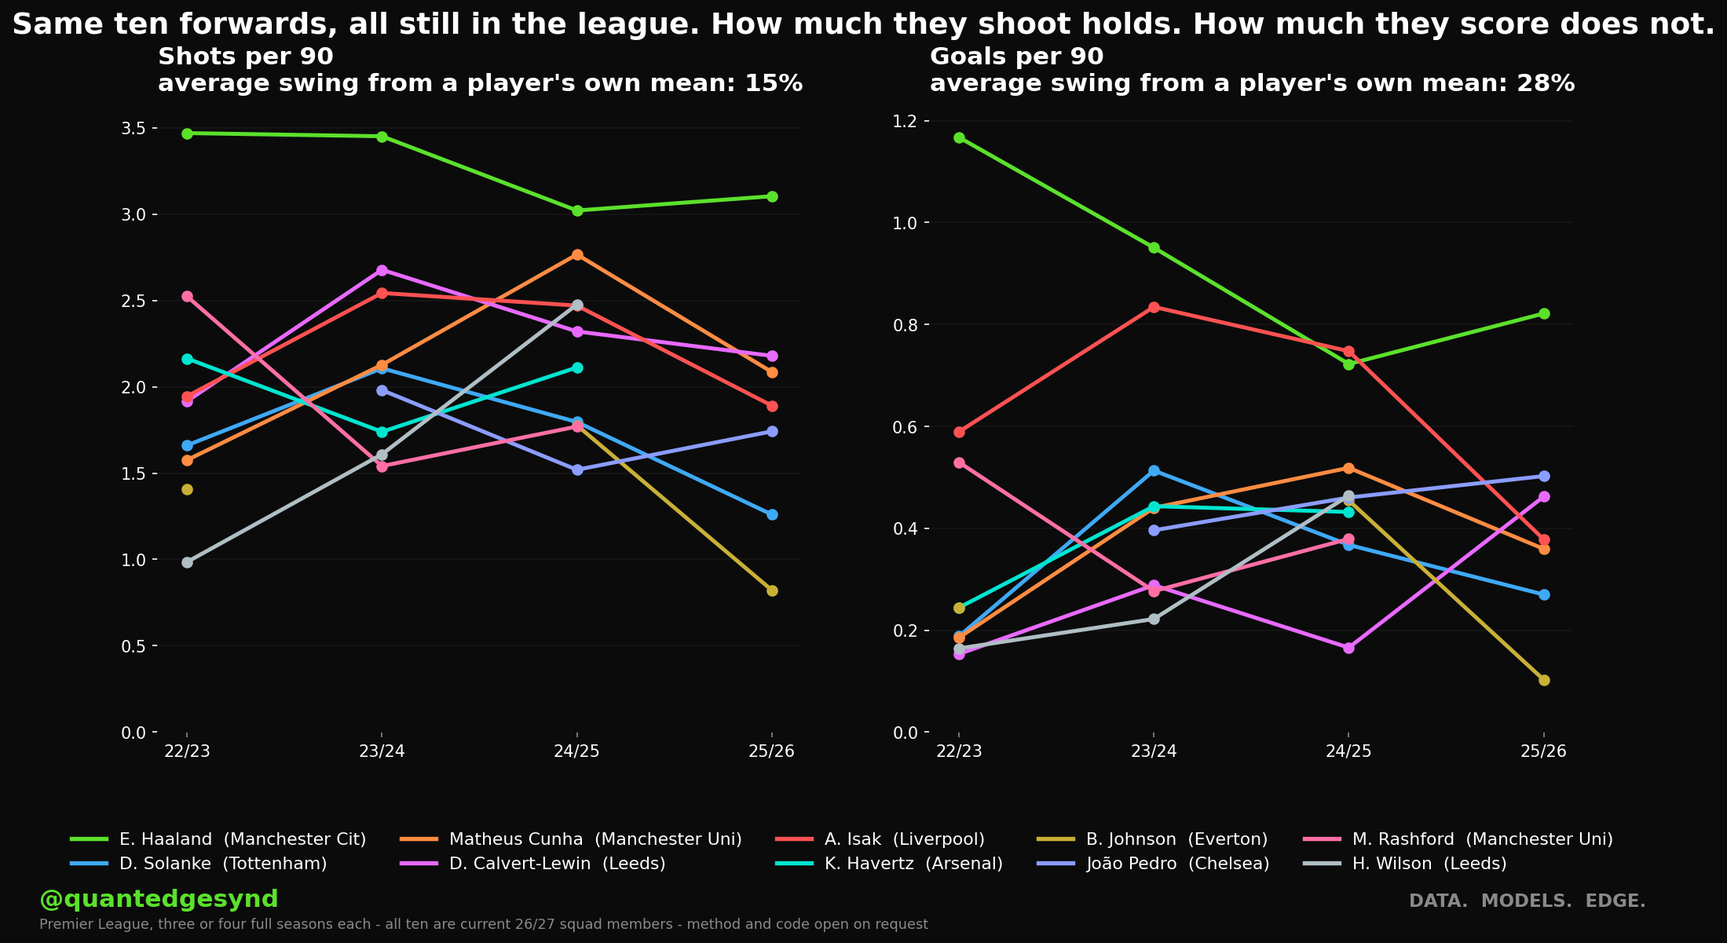
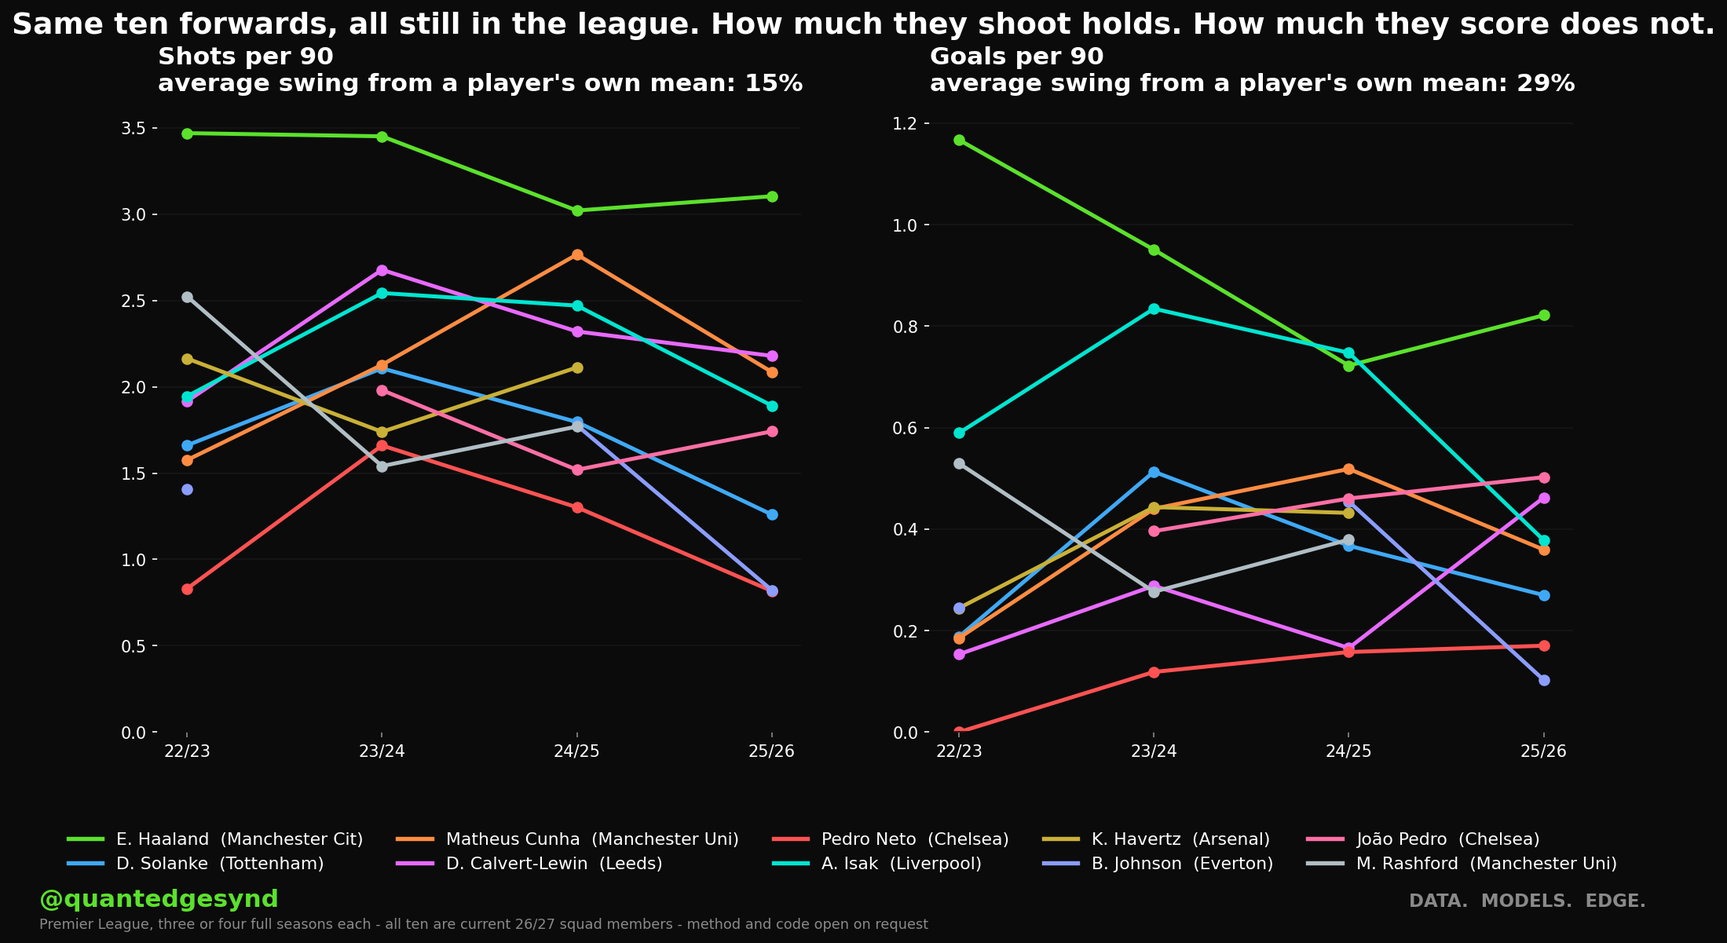
Correct the persistence numbers after folding the Forward label
Most retention figures move by one or two points (conversion 11% to 12%,
shots/90 64% to 65%) and the charts are redrawn. Dated correction notes are on
the persistence and goals pieces. The goals piece's key-passes sentence now
says its interval only just clears zero. The Tzolis ranges are corrected and
his call is unchanged. The homepage and metric-audit figures are updated to
match. Vetted to GO.

Claude-Session: https://claude.ai/code/session_01WAuhRhrydoEqPton8EzKwz

diff --git a/analysis/which-football-stats-persist/index.html b/analysis/which-football-stats-persist/index.html
@@ -237,7 +237,7 @@
     happened to have.</p>
 
     <p>We call what's left the <strong>retention</strong>. A stat that keeps
-    83% of its gap is picking up something that lasts. One that keeps 11% has
+    84% of its gap is picking up something that lasts. One that keeps 12% has
     watched its two groups more or less merge.</p>
 
     <h2>Compare like with like</h2>
@@ -249,7 +249,7 @@
     <p>So every comparison here is made <strong>within a position
     group</strong>: forwards against forwards, defenders against defenders. It
     matters more than you'd think. Lump everyone together and shots per 90
-    looks 89% reliable. Do it properly and it's 64%. Most of that difference
+    looks 89% reliable. Do it properly and it's 65%. Most of that difference
     was positions, not persistence.</p>
 
     <p class="note"><strong>The detail.</strong> Four completed Premier League
@@ -275,13 +275,13 @@
       thing: the gap between two groups this year, divided by the gap between
       the same two groups last year.</p>
       <p>It isn't a correlation, and it isn't the share of variance explained.
-      It isn't a measure of how much of a stat is skill either. &ldquo;Only 11%
+      It isn't a measure of how much of a stat is skill either. &ldquo;Only 12%
       of finishing persists&rdquo; sounds like a skill measurement, but it
       isn't one.</p>
       <p>We show correlation separately, in its own column, because it answers
       a different question. Retention asks whether the gap is still there.
       Correlation asks whether the same players are still ahead. For conversion
-      they come out at 11% and 0.10, which is close enough to be confusing and
+      they come out at 12% and 0.10, which is close enough to be confusing and
       is pure coincidence.</p>
     </div>
 
@@ -290,23 +290,23 @@
       <thead><tr><th>Metric</th><th class="num">Retained</th>
       <th class="num">Correlation</th></tr></thead>
       <tbody>
-      <tr class="hi"><td>passes per 90</td><td class="num">83%</td><td class="num">0.89</td></tr>
-      <tr class="hi"><td>dribbles attempted per 90</td><td class="num">84%</td><td class="num">0.90</td></tr>
-      <tr class="hi"><td>duels per 90</td><td class="num">82%</td><td class="num">0.85</td></tr>
-      <tr class="hi"><td>key passes per 90</td><td class="num">78%</td><td class="num">0.81</td></tr>
-      <tr class="hi"><td>fouls drawn per 90</td><td class="num">76%</td><td class="num">0.81</td></tr>
-      <tr class="hi"><td>tackles per 90</td><td class="num">70%</td><td class="num">0.77</td></tr>
-      <tr class=""><td>fouls committed per 90</td><td class="num">67%</td><td class="num">0.71</td></tr>
-      <tr class=""><td>blocks per 90</td><td class="num">65%</td><td class="num">0.73</td></tr>
-      <tr class=""><td>shots per 90</td><td class="num">64%</td><td class="num">0.87</td></tr>
+      <tr class="hi"><td>passes per 90</td><td class="num">84%</td><td class="num">0.89</td></tr>
+      <tr class="hi"><td>dribbles attempted per 90</td><td class="num">83%</td><td class="num">0.90</td></tr>
+      <tr class="hi"><td>duels per 90</td><td class="num">83%</td><td class="num">0.85</td></tr>
+      <tr class="hi"><td>key passes per 90</td><td class="num">77%</td><td class="num">0.81</td></tr>
+      <tr class="hi"><td>fouls drawn per 90</td><td class="num">75%</td><td class="num">0.81</td></tr>
+      <tr class=""><td>tackles per 90</td><td class="num">69%</td><td class="num">0.77</td></tr>
+      <tr class=""><td>fouls committed per 90</td><td class="num">69%</td><td class="num">0.71</td></tr>
+      <tr class=""><td>shots per 90</td><td class="num">65%</td><td class="num">0.87</td></tr>
+      <tr class=""><td>blocks per 90</td><td class="num">63%</td><td class="num">0.73</td></tr>
       <tr class=""><td>interceptions per 90</td><td class="num">60%</td><td class="num">0.72</td></tr>
-      <tr class=""><td>duel win %</td><td class="num">58%</td><td class="num">0.75</td></tr>
-      <tr class=""><td>match rating</td><td class="num">50%</td><td class="num">0.50</td></tr>
-      <tr class=""><td>goals + assists per 90</td><td class="num">47%</td><td class="num">0.73</td></tr>
+      <tr class=""><td>duel win %</td><td class="num">57%</td><td class="num">0.75</td></tr>
+      <tr class=""><td>match rating</td><td class="num">48%</td><td class="num">0.50</td></tr>
+      <tr class=""><td>goals + assists per 90</td><td class="num">46%</td><td class="num">0.73</td></tr>
       <tr class="lo"><td>goals per 90</td><td class="num">32%</td><td class="num">0.74</td></tr>
       <tr class="lo"><td>dribble success %</td><td class="num">31%</td><td class="num">0.21</td></tr>
-      <tr class="lo"><td>shot accuracy</td><td class="num">13%</td><td class="num">0.20</td></tr>
-      <tr class="lo"><td>conversion</td><td class="num">11%</td><td class="num">0.10</td></tr>
+      <tr class="lo"><td>shot accuracy</td><td class="num">12%</td><td class="num">0.20</td></tr>
+      <tr class="lo"><td>conversion</td><td class="num">12%</td><td class="num">0.10</td></tr>
       </tbody>
     </table>
 
@@ -314,31 +314,31 @@
     <p>Everything near the top counts how often something happens. A player
     who tried a lot of dribbles this season tends to try a lot next season too.
     The correlation there is 0.90, the highest on the board. Passing volume,
-    duels, key passes and tackles all keep 70% of their gap or more.</p>
+    duels, key passes and tackles all keep 69% of their gap or more.</p>
 
     <p>These are habits. They reflect how someone plays and what his manager
     wants from him, and neither changes much in twelve months.</p>
 
     <h2>The bottom of the table: how well he does it</h2>
     <p>Everything near the bottom is a success rate, and success rates fall
-    apart. Shot accuracy keeps 13% of its gap. Dribble success keeps 31%.
-    Conversion (goals per shot on target) keeps 11%, with a year-on-year
+    apart. Shot accuracy keeps 12% of its gap. Dribble success keeps 31%.
+    Conversion (goals per shot on target) keeps 12%, with a year-on-year
     correlation of 0.10.</p>
 
-    <p>One caveat, and it cuts against us. That 11% covers every outfielder,
+    <p>One caveat, and it cuts against us. That 12% covers every outfielder,
     centre-backs included, and a finishing rate doesn't mean much for a
-    centre-back. Look at attackers only and it rises to 23%, on 130
+    centre-back. Look at attackers only and it rises to 23%, on 157
     season-pairs. That's still well below every volume stat on the board, but
-    if you're asking about forwards, 23% is the figure to use, not 11%.</p>
+    if you're asking about forwards, 23% is the figure to use, not 12%.</p>
 
     <h2>What that looks like with real players</h2>
     <p>Take Premier League attackers and split them on finishing alone, good
-    half and poor half, across 92 consecutive season-pairs.</p>
+    half and poor half, across 103 consecutive season-pairs.</p>
 
-    <p>In year one the good half converted 46.6% of their shots on target and
-    the poor half 27.7%. A year later the good half had dropped to 37.1% and
-    the poor half had climbed to 33.1%. They finished either side of the
-    league median of 34.8%, four points apart.</p>
+    <p>In year one the good half converted 45.8% of their shots on target and
+    the poor half 26.8%. A year later the good half had dropped to 36.7% and
+    the poor half had climbed to 33.6%. They finished either side of the
+    league median of 34.6%, about three points apart.</p>
 
     <p>Nobody switched clubs to cause that, and nobody changed as a player.
     Both groups just drifted back towards the middle, which is what happens to
@@ -351,9 +351,9 @@
       year-one difference held. The solid lines are where they went.</figcaption>
     </figure>
 
-    <p>A 19.0-point gap shrank to 4.0 points, so roughly four fifths of it
-    went inside a year. The 95% interval on that change runs from &minus;20.0
-    to &minus;9.8 points. That's nowhere near zero, so we're not reading
+    <p>A 19.0-point gap shrank to 3.2 points, so more than four fifths of it
+    went inside a year. The 95% interval on that change runs from &minus;20.5
+    to &minus;10.7 points. That's nowhere near zero, so we're not reading
     patterns into noise.</p>
 
     <h2>One player, both halves</h2>
@@ -362,8 +362,8 @@
 
     <p><strong>How often he shoots hardly moves.</strong> Across four seasons
     it's 3.47, 3.45, 3.02 and 3.10 shots per 90. That's roughly double a
-    typical Premier League attacker, and even his quietest year is more than
-    80% above that.</p>
+    typical Premier League attacker, and even his quietest year is about 80%
+    above that.</p>
 
     <p><strong>How often those shots go in swings all over the place.</strong>
     60%, then 46%, then 37%, then 46% of his shots on target.</p>
@@ -377,7 +377,7 @@
       <img src="/analysis/striker-shot-volume.png"
            alt="Two panel chart of shots per 90 and goals per 90 for ten current Premier League forwards across four seasons">
       <figcaption>Ten forwards, all current Premier League squad members.
-      Average swing from a player's own mean: 15% on shots, 28% on goals.</figcaption>
+      Average swing from a player's own mean: 15% on shots, 29% on goals.</figcaption>
     </figure>
 
     <h2>What we're not claiming</h2>
@@ -393,7 +393,7 @@
 
     <p>That's why it's the <em>ranking</em> that matters here, not the
     individual percentages. Every stat in the table faces the same headwind.
-    Passing volume still keeps 83% of its gap. Conversion keeps 11%. The
+    Passing volume still keeps 84% of its gap. Conversion keeps 12%. The
     distance between those two is real, even if both are flattered by the same
     arithmetic.</p>
 
@@ -409,7 +409,7 @@
 
     <p>What we can say is smaller. If a screen ranks forwards on conversion
     rate, most of what separates the top of the list from the bottom won't be
-    there next season. Shot accuracy, at 13%, is the same story. The stats
+    there next season. Shot accuracy, at 12%, is the same story. The stats
     that last are the boring ones: how often he shoots rather than how often
     he scores, and how often he takes a man on rather than how often it comes
     off.</p>
@@ -428,6 +428,18 @@
     <p>We publish the results that fall flat as well as the ones that land.
     If we only showed you the good ones, you'd have no reason to believe
     them.</p>
+
+    <p class="note"><strong>Corrected on 22 September 2026.</strong> Our data
+    provider files strikers under two labels, "Attacker" and "Forward", and the
+    original analysis only counted the first, so some forwards were left out of
+    the within-position comparisons. With both counted, most figures moved by
+    one or two points (conversion 11% to 12%, shots per 90 64% to 65%) and the
+    charts were redrawn. A few neighbouring rows swapped places, but the split
+    between volume and efficiency, and every conclusion, are unchanged. The
+    forwards-only finishing figure is 23% on 157 season-pairs, counted by the
+    first season's label as the table is. The finishing example now covers 103
+    season-pairs rather than 92, and one player changed in the ten-forwards
+    chart.</p>
   </article>
 
   <footer>

diff --git a/analysis/what-last-seasons-goals-tell-you/index.html b/analysis/what-last-seasons-goals-tell-you/index.html
@@ -8,17 +8,17 @@
 <link rel="icon" type="image/svg+xml" href="/favicon.svg">
 <link rel="alternate icon" href="/favicon.png">
 <title>The half of a striker's season worth paying for | Quant Edge Syndicate</title>
-<meta name="description" content="Finishing barely persists, so the obvious move is to stop looking at goals and look at shots instead. We tested that and it's wrong. 130 Premier League attacker season-pairs.">
+<meta name="description" content="Finishing barely persists, so the obvious move is to stop looking at goals and look at shots instead. We tested that and it's wrong. 145 Premier League attacker season-pairs.">
 <link rel="canonical" href="https://quantedgesyndicate.com/analysis/what-last-seasons-goals-tell-you/">
 <meta name="robots" content="index,follow">
 <meta property="og:type" content="article">
 <meta property="og:title" content="The half of a striker's season worth paying for">
-<meta property="og:description" content="Finishing barely persists, so the obvious move is to stop looking at goals and look at shots instead. We tested that and it's wrong. 130 Premier League attacker season-pairs.">
+<meta property="og:description" content="Finishing barely persists, so the obvious move is to stop looking at goals and look at shots instead. We tested that and it's wrong. 145 Premier League attacker season-pairs.">
 <meta property="og:url" content="https://quantedgesyndicate.com/analysis/what-last-seasons-goals-tell-you/">
 <meta property="og:image" content="https://quantedgesyndicate.com/analysis/predicting-goals.png">
 <meta name="twitter:card" content="summary_large_image">
 <meta name="twitter:title" content="The half of a striker's season worth paying for">
-<meta name="twitter:description" content="Finishing barely persists, so the obvious move is to stop looking at goals and look at shots instead. We tested that and it's wrong. 130 Premier League attacker season-pairs.">
+<meta name="twitter:description" content="Finishing barely persists, so the obvious move is to stop looking at goals and look at shots instead. We tested that and it's wrong. 145 Premier League attacker season-pairs.">
 <meta name="twitter:image" content="https://quantedgesyndicate.com/analysis/predicting-goals.png">
 <style>
   :root {
@@ -234,12 +234,12 @@
     <figure>
       <img src="/analysis/predicting-goals.png"
            alt="Bar chart of how well each of last season's metrics correlates with the same attacker's goals per 90 the following season">
-      <figcaption>Premier League attackers, 130 consecutive season-pairs.
+      <figcaption>Premier League attackers, 145 consecutive season-pairs.
       Bars are 95% intervals. The top three overlap, so treat them as a group
       rather than a ranking.</figcaption>
     </figure>
 
-    <p>Goals come out at 0.53, goals and assists at 0.49, shots at 0.47. Look
+    <p>Goals come out at 0.52, goals and assists at 0.47, shots at 0.47. Look
     at the bars, though: those three overlap almost completely. So it isn't
     that goals win. All three tell you about the same amount, and none of them is
     far enough ahead to be worth switching to.</p>
@@ -278,8 +278,8 @@
     <p>The success rates hiding inside the goals, rather than the goals
     themselves.</p>
 
-    <p>Conversion, the share of his shots on target that went in, scores 0.23
-    against next season's goals. Shot accuracy scores 0.08, and its interval
+    <p>Conversion, the share of his shots on target that went in, scores 0.22
+    against next season's goals. Shot accuracy scores 0.10, and its interval
     crosses zero. Put simply, we can't rule out that it tells you nothing at
     all.</p>
 
@@ -306,18 +306,19 @@
 
     <h2>One thing we didn't expect</h2>
 
-    <p>Among attackers, key passes per 90 score <strong>minus 0.15</strong>
+    <p>Among attackers, key passes per 90 score <strong>minus 0.17</strong>
     against next season's goals. Slightly negative, in other words: the
-    players creating chances aren't the ones finishing them.</p>
+    players creating chances tend not to be the ones finishing them.</p>
 
-    <p>The interval crosses zero, so we're not calling it a finding. It does
-    cause problems for any product that rolls a forward's whole game into one
+    <p>The interval only just clears zero (&minus;0.32 to &minus;0.01), and
+    it's one result among several we tested, so we're still not calling it a
+    finding. It does cause problems for any product that rolls a forward's whole game into one
     rating, though, because at least two of the ingredients pull in opposite
     directions.</p>
 
     <h2>Limits</h2>
 
-    <p>130 attacker season-pairs isn't many. The top three stats sit inside
+    <p>145 attacker season-pairs isn't many. The top three stats sit inside
     each other's intervals, and we've said so rather than ranking them as if
     the order meant something.</p>
 
@@ -325,7 +326,7 @@
     no event or tracking data. And the correlations here are about who ranks
     where, not how many goals a particular player will score.</p>
 
-    <p>Most importantly, 0.53 still leaves the large majority of next season
+    <p>Most importantly, 0.52 still leaves the large majority of next season
     unexplained.
     Goals are the best of a weak bunch, which isn't the same as good.</p>
 
@@ -338,6 +339,13 @@
     <p>We only wrote this because the first piece pointed towards a
     conclusion that didn't hold up once we checked. Catching that sort of
     thing is a big part of why we publish at all.</p>
+
+    <p class="note"><strong>Corrected on 22 September 2026.</strong> The
+    original counted only one of the data provider's two labels for strikers.
+    With both, the sample is 145 season-pairs rather than 130 and the figures
+    move slightly (goals 0.53 to 0.52). One sentence changed meaning: the
+    key-passes interval now just clears zero, and the text above says so. The
+    chart was redrawn.</p>
 
     <div class="callout">
       <p><strong>Want to know what your own metrics score?</strong> We'll run

diff --git a/metric-audit/index.html b/metric-audit/index.html
@@ -8,17 +8,17 @@
 <link rel="icon" type="image/svg+xml" href="/favicon.svg">
 <link rel="alternate icon" href="/favicon.png">
 <title>Metric audit | Quant Edge Syndicate</title>
-<meta name="description" content="We test which of the player metrics you screen on still describe the same player a year later. Of the gap between the best and worst half, conversion rate keeps 11% a season later. Passing keeps 83%.">
+<meta name="description" content="We test which of the player metrics you screen on still describe the same player a year later. Of the gap between the best and worst half, conversion rate keeps 12% a season later. Passing keeps 84%.">
 <link rel="canonical" href="https://quantedgesyndicate.com/metric-audit/">
 <meta name="robots" content="index,follow">
 <meta property="og:type" content="article">
 <meta property="og:title" content="Metric audit">
-<meta property="og:description" content="We test which of the player metrics you screen on still describe the same player a year later. Of the gap between the best and worst half, conversion rate keeps 11% a season later. Passing keeps 83%.">
+<meta property="og:description" content="We test which of the player metrics you screen on still describe the same player a year later. Of the gap between the best and worst half, conversion rate keeps 12% a season later. Passing keeps 84%.">
 <meta property="og:url" content="https://quantedgesyndicate.com/metric-audit/">
 <meta property="og:image" content="https://quantedgesyndicate.com/analysis/metric-persistence.png">
 <meta name="twitter:card" content="summary_large_image">
 <meta name="twitter:title" content="Metric audit">
-<meta name="twitter:description" content="We test which of the player metrics you screen on still describe the same player a year later. Of the gap between the best and worst half, conversion rate keeps 11% a season later. Passing keeps 83%.">
+<meta name="twitter:description" content="We test which of the player metrics you screen on still describe the same player a year later. Of the gap between the best and worst half, conversion rate keeps 12% a season later. Passing keeps 84%.">
 <meta name="twitter:image" content="https://quantedgesyndicate.com/analysis/metric-persistence.png">
 <style>
   :root {
@@ -222,8 +222,8 @@
 
     <p>Split your players at the median on a metric, then look a season later
     at how far apart those same two halves still are. On four completed seasons
-    of Premier League data, passing volume keeps <strong>83%</strong> of that
-    gap. Conversion rate keeps <strong>11%</strong>. If a shortlist weights
+    of Premier League data, passing volume keeps <strong>84%</strong> of that
+    gap. Conversion rate keeps <strong>12%</strong>. If a shortlist weights
     those the same way, most of what it is measuring is last season's luck.</p>
 
     <figure>
@@ -249,7 +249,7 @@
     the slow way:</p>
 
     <div class="trap"><strong>Pooling positions.</strong> Measured across
-    everyone, shot volume looks 89% stable. Measured within position it is 64%.
+    everyone, shot volume looks 89% stable. Measured within position it is 65%.
     Most of that gap was forwards being forwards.</div>
 
     <div class="trap"><strong>Null is not zero.</strong> The same feed uses an
@@ -261,7 +261,7 @@
     properly. A single rule gets one of those wrong.</div>
 
     <div class="trap"><strong>The wrong population.</strong> Conversion rate
-    across all outfielders reads 11%. Among the forwards it actually describes,
+    across all outfielders reads 12%. Among the forwards it actually describes,
     23%. Quote the wrong one and you understate your own screen.</div>
 
     <div class="trap"><strong>Mechanical regression.</strong> Split any noisy

diff --git a/analysis/what-23-assists-are-worth/index.html b/analysis/what-23-assists-are-worth/index.html
@@ -222,8 +222,9 @@
 
     <p>Our <a href="/analysis/which-football-stats-persist/">persistence
     research</a> found a clean divide across 652 Premier League season-pairs.
-    Counts of how often a player does something keep 64 to 84% of their
-    year-one gap twelve months later. Success rates keep 11 to 31%.</p>
+    Volume counts such as passes, shots, dribbles and tackles keep 60 to 84% of
+    their year-one gap twelve months later. Success rates on shooting and dribbling
+    keep 12 to 31%.</p>
 
     <p>Every attacking season splits along that line.</p>
 
@@ -256,7 +257,7 @@
 
     <p>His chance creation has gone up every season: 1.74, then 2.45, then
     3.92 key passes per 90. Key passes are one of the most persistent stats we
-    measured, keeping 78% of their gap from one year to the next, and his are
+    measured, keeping 77% of their gap from one year to the next, and his are
     still climbing.</p>
 
     <p>One word of caution here, and it runs the other way to the rest of
@@ -384,8 +385,10 @@
     <p>If this call goes against us, it'll be written up here just the same.
     That's the deal with calling things in advance.</p>
 
-    <p class="note">Edited for style on 22 September 2026. The numbers and the
-    call are unchanged.</p>
+    <p class="note">Edited for style on 22 September 2026, and the persistence
+    figures above corrected the same day after a data-labelling fix (see the
+    <a href="/analysis/which-football-stats-persist/">persistence piece</a>).
+    Tzolis's own numbers and the call are unchanged.</p>
 
     <div class="callout">
       <p><strong>Want this run on a player you're working on?</strong> We'll do

diff --git a/index.html b/index.html
@@ -462,8 +462,8 @@
       takes people on next season, at a correlation of <strong>0.90</strong>.
       Passing, duels and tackles all hold up.
       <br /><br />
-      Efficiency does not. Shot accuracy keeps <strong>13%</strong> of its
-      separation and conversion keeps <strong>11%</strong>. A screen that ranks
+      Efficiency does not. Shot accuracy keeps <strong>12%</strong> of its
+      separation and conversion keeps <strong>12%</strong>. A screen that ranks
       forwards on how many of their shots go in is ranking them largely on last
       season's variance.
       <br /><br />
